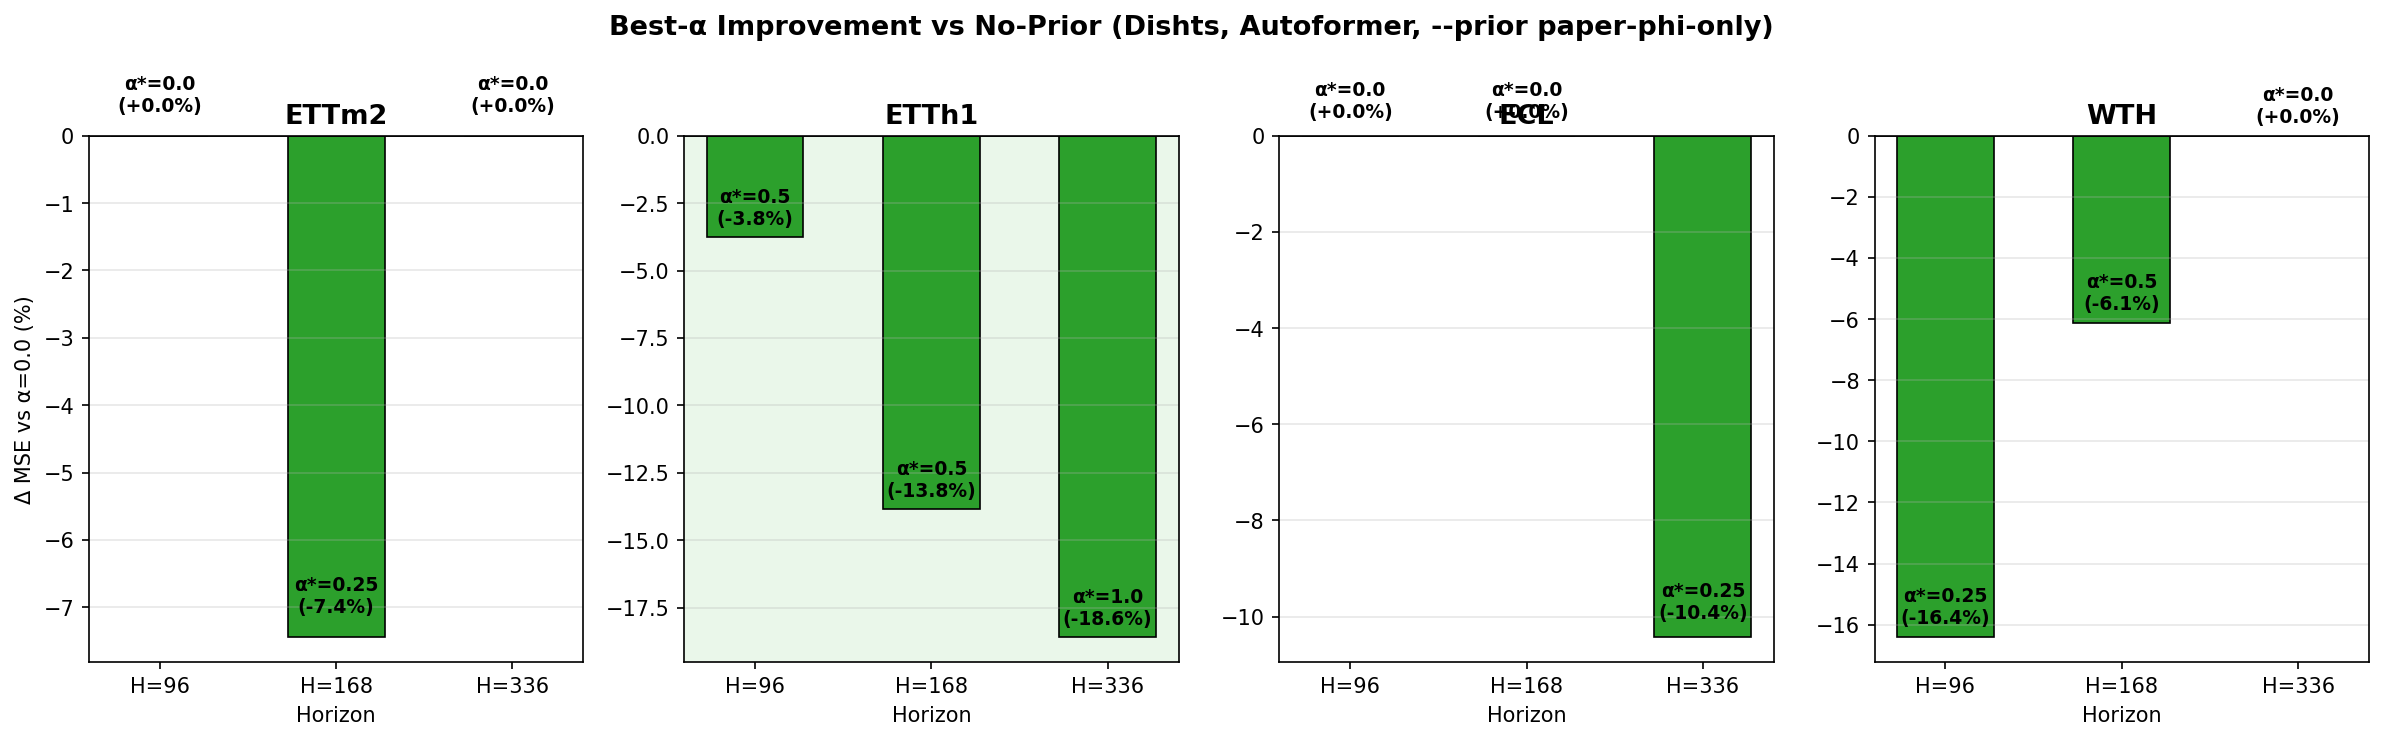
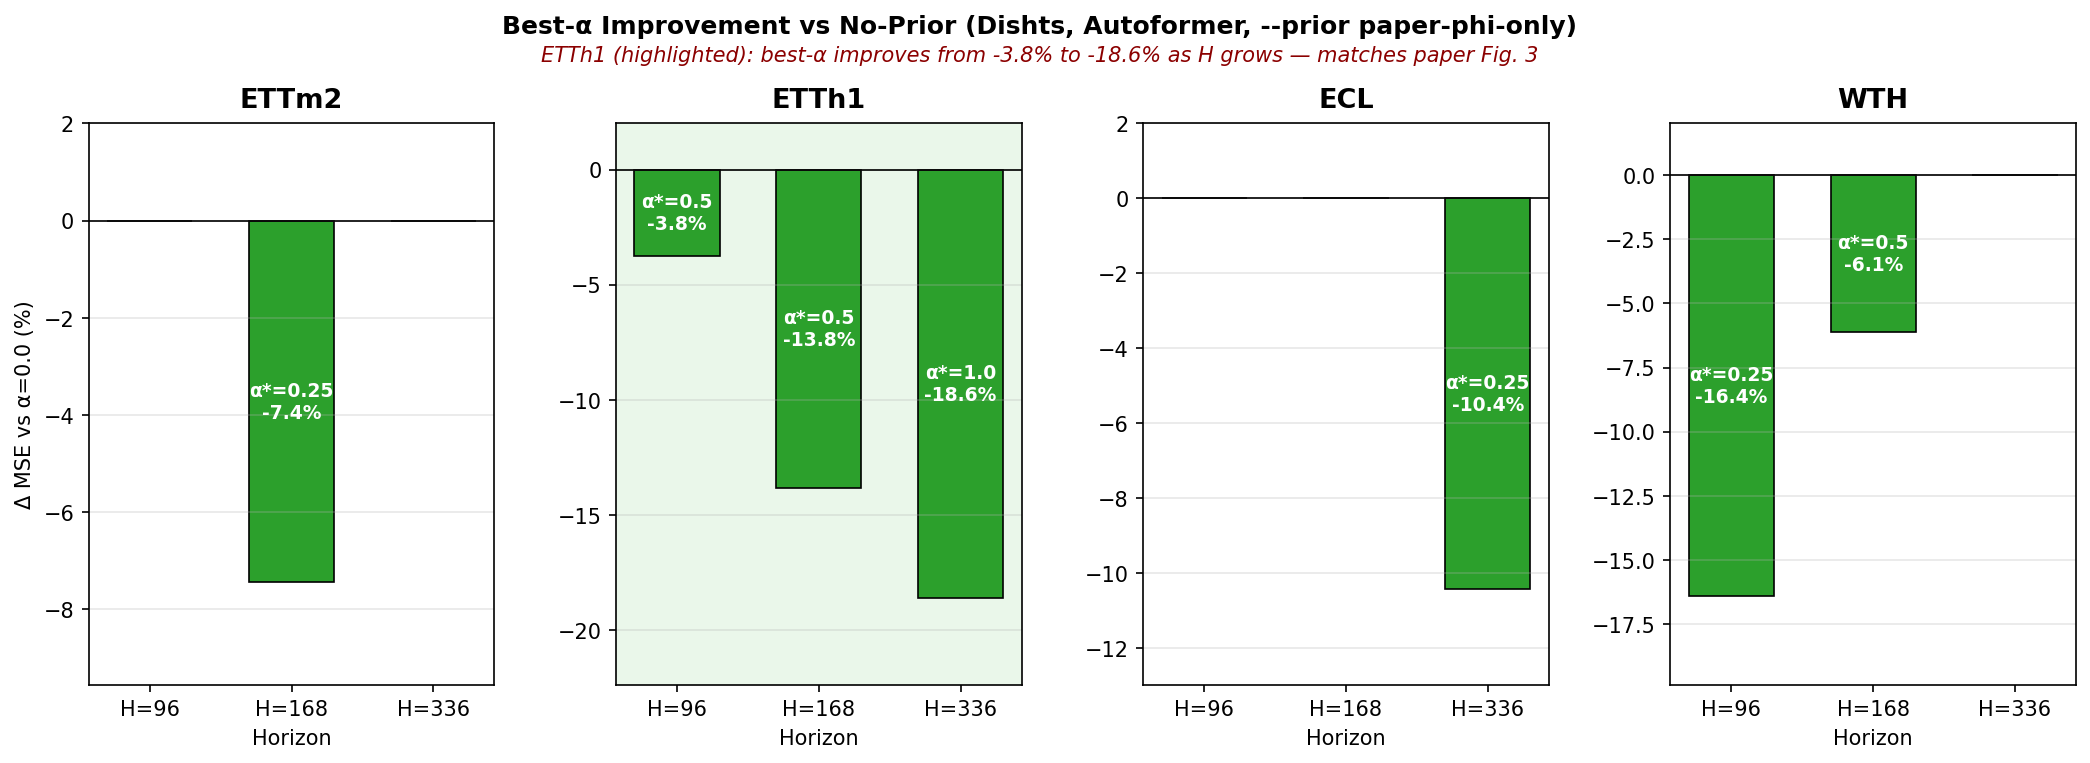
Fix label overlap in PPT bar chart: place ??* labels inside bars, drop ??*=0.0 noise for empty cells, add figure-level paper-trend note

diff --git a/repro_figures/plot_ppt_best_alpha.py b/repro_figures/plot_ppt_best_alpha.py
@@ -88,59 +88,90 @@ def main() -> int:
 
     # Plot: 4 panels (one per dataset), 3 bars (one per pred_len)
     n_ds = len(args.datasets)
-    fig, axes = plt.subplots(1, n_ds, figsize=(4 * n_ds, 5), sharey=False)
+    fig, axes = plt.subplots(
+        1, n_ds, figsize=(3.6 * n_ds, 5.2), sharey=False
+    )
     if n_ds == 1:
         axes = [axes]
 
     # x positions: pred_len groups
     x = np.arange(len(args.pred_lens))
-    width = 0.55
+    width = 0.6
 
-    for ax, ds in zip(axes, args.datasets):
+    # leave room on top for labels
+    plt.subplots_adjust(top=0.82, bottom=0.10, left=0.06, right=0.98,
+                        wspace=0.30)
+
+    for ax_idx, (ax, ds) in enumerate(zip(axes, args.datasets)):
         heights = []
-        labels = []
+        labels_text = []
         colors = []
         for pl in args.pred_lens:
             cell = [c for c in cells if c[0] == ds and c[1] == pl]
             if not cell:
                 heights.append(0)
-                labels.append("")
+                labels_text.append("")
                 colors.append("lightgray")
             else:
                 _, _, best_al, base, best, pct = cell[0]
                 heights.append(pct)
-                labels.append(f"α*={best_al}\n({pct:+.1f}%)")
+                # only show α* label inside the bar (no extra noise)
+                if pct <= -0.1:                     # real improvement
+                    labels_text.append(f"α*={best_al}\n{pct:+.1f}%")
+                else:                                # no improvement
+                    labels_text.append("α*=0.0")
                 # color: green if improvement, red if regression
                 colors.append("#2ca02c" if pct <= 0 else "#d62728")
 
-        bars = ax.bar(x, heights, width, color=colors, edgecolor="black", linewidth=0.8)
-        # value labels above/below bars
-        for bar, label in zip(bars, labels):
-            h = bar.get_height()
-            va = "bottom" if h <= 0 else "top"
-            offset = 0.3 if h <= 0 else -0.3
-            ax.text(bar.get_x() + bar.get_width() / 2, h + offset,
-                    label, ha="center", va=va, fontsize=9, fontweight="bold")
+        bars = ax.bar(x, heights, width, color=colors,
+                      edgecolor="black", linewidth=0.8)
 
+        # place ALL labels INSIDE bars (no labels above plot area to avoid
+        # title / neighbour-subplot overlap)
+        for bar, label in zip(bars, labels_text):
+            if not label:
+                continue
+            h = bar.get_height()
+            # bottom of bar (since most bars are negative)
+            y_text = h / 2 if h != 0 else -0.5
+            ax.text(bar.get_x() + bar.get_width() / 2, y_text, label,
+                    ha="center", va="center", fontsize=9,
+                    fontweight="bold", color="white")
+
+        # Title: keep inside the axes (top), do not use figure title
+        ax.set_title(ds, fontsize=13, fontweight="bold", pad=8)
         ax.axhline(0, color="black", linewidth=0.8)
         ax.set_xticks(x)
         ax.set_xticklabels([f"H={pl}" for pl in args.pred_lens], fontsize=10)
-        ax.set_title(ds, fontsize=13, fontweight="bold")
         ax.set_xlabel("Horizon", fontsize=10)
         ax.grid(True, axis="y", alpha=0.3)
-        # Mark ETTh1 as "matches paper Fig 3"
+
+        # ETTh1 highlight
         if ds == "ETTh1":
-            ax.set_facecolor("#eaf7ea")  # light green tint
+            ax.set_facecolor("#eaf7ea")
+
+        # extend y limits a bit so labels and bars are not clipped
+        ymin, ymax = ax.get_ylim()
+        ymin = min(ymin, min(heights + [0]) * 1.15 - 1)
+        ymax = max(ymax, 2)
+        ax.set_ylim(ymin, ymax)
 
     axes[0].set_ylabel("Δ MSE vs α=0.0 (%)", fontsize=10)
+
+    # Suptitle at very top with sufficient padding
     fig.suptitle(
         "Best-α Improvement vs No-Prior (Dishts, Autoformer, --prior paper-phi-only)",
-        fontsize=13, fontweight="bold"
+        fontsize=12, fontweight="bold", y=0.96,
     )
-    plt.tight_layout()
+
+    # Subtitle / paper-trend line as figure-level text
+    fig.text(0.5, 0.90,
+             "ETTh1 (highlighted): best-α improves from -3.8% to -18.6% as H grows — matches paper Fig. 3",
+             ha="center", fontsize=10, color="darkred", style="italic")
+
     out = Path(args.output)
     out.parent.mkdir(parents=True, exist_ok=True)
-    plt.savefig(out, dpi=150, bbox_inches="tight")
+    plt.savefig(out, dpi=150, bbox_inches="tight", facecolor="white")
     print(f"Saved {out}")
 
     # Also print the table for inspection
